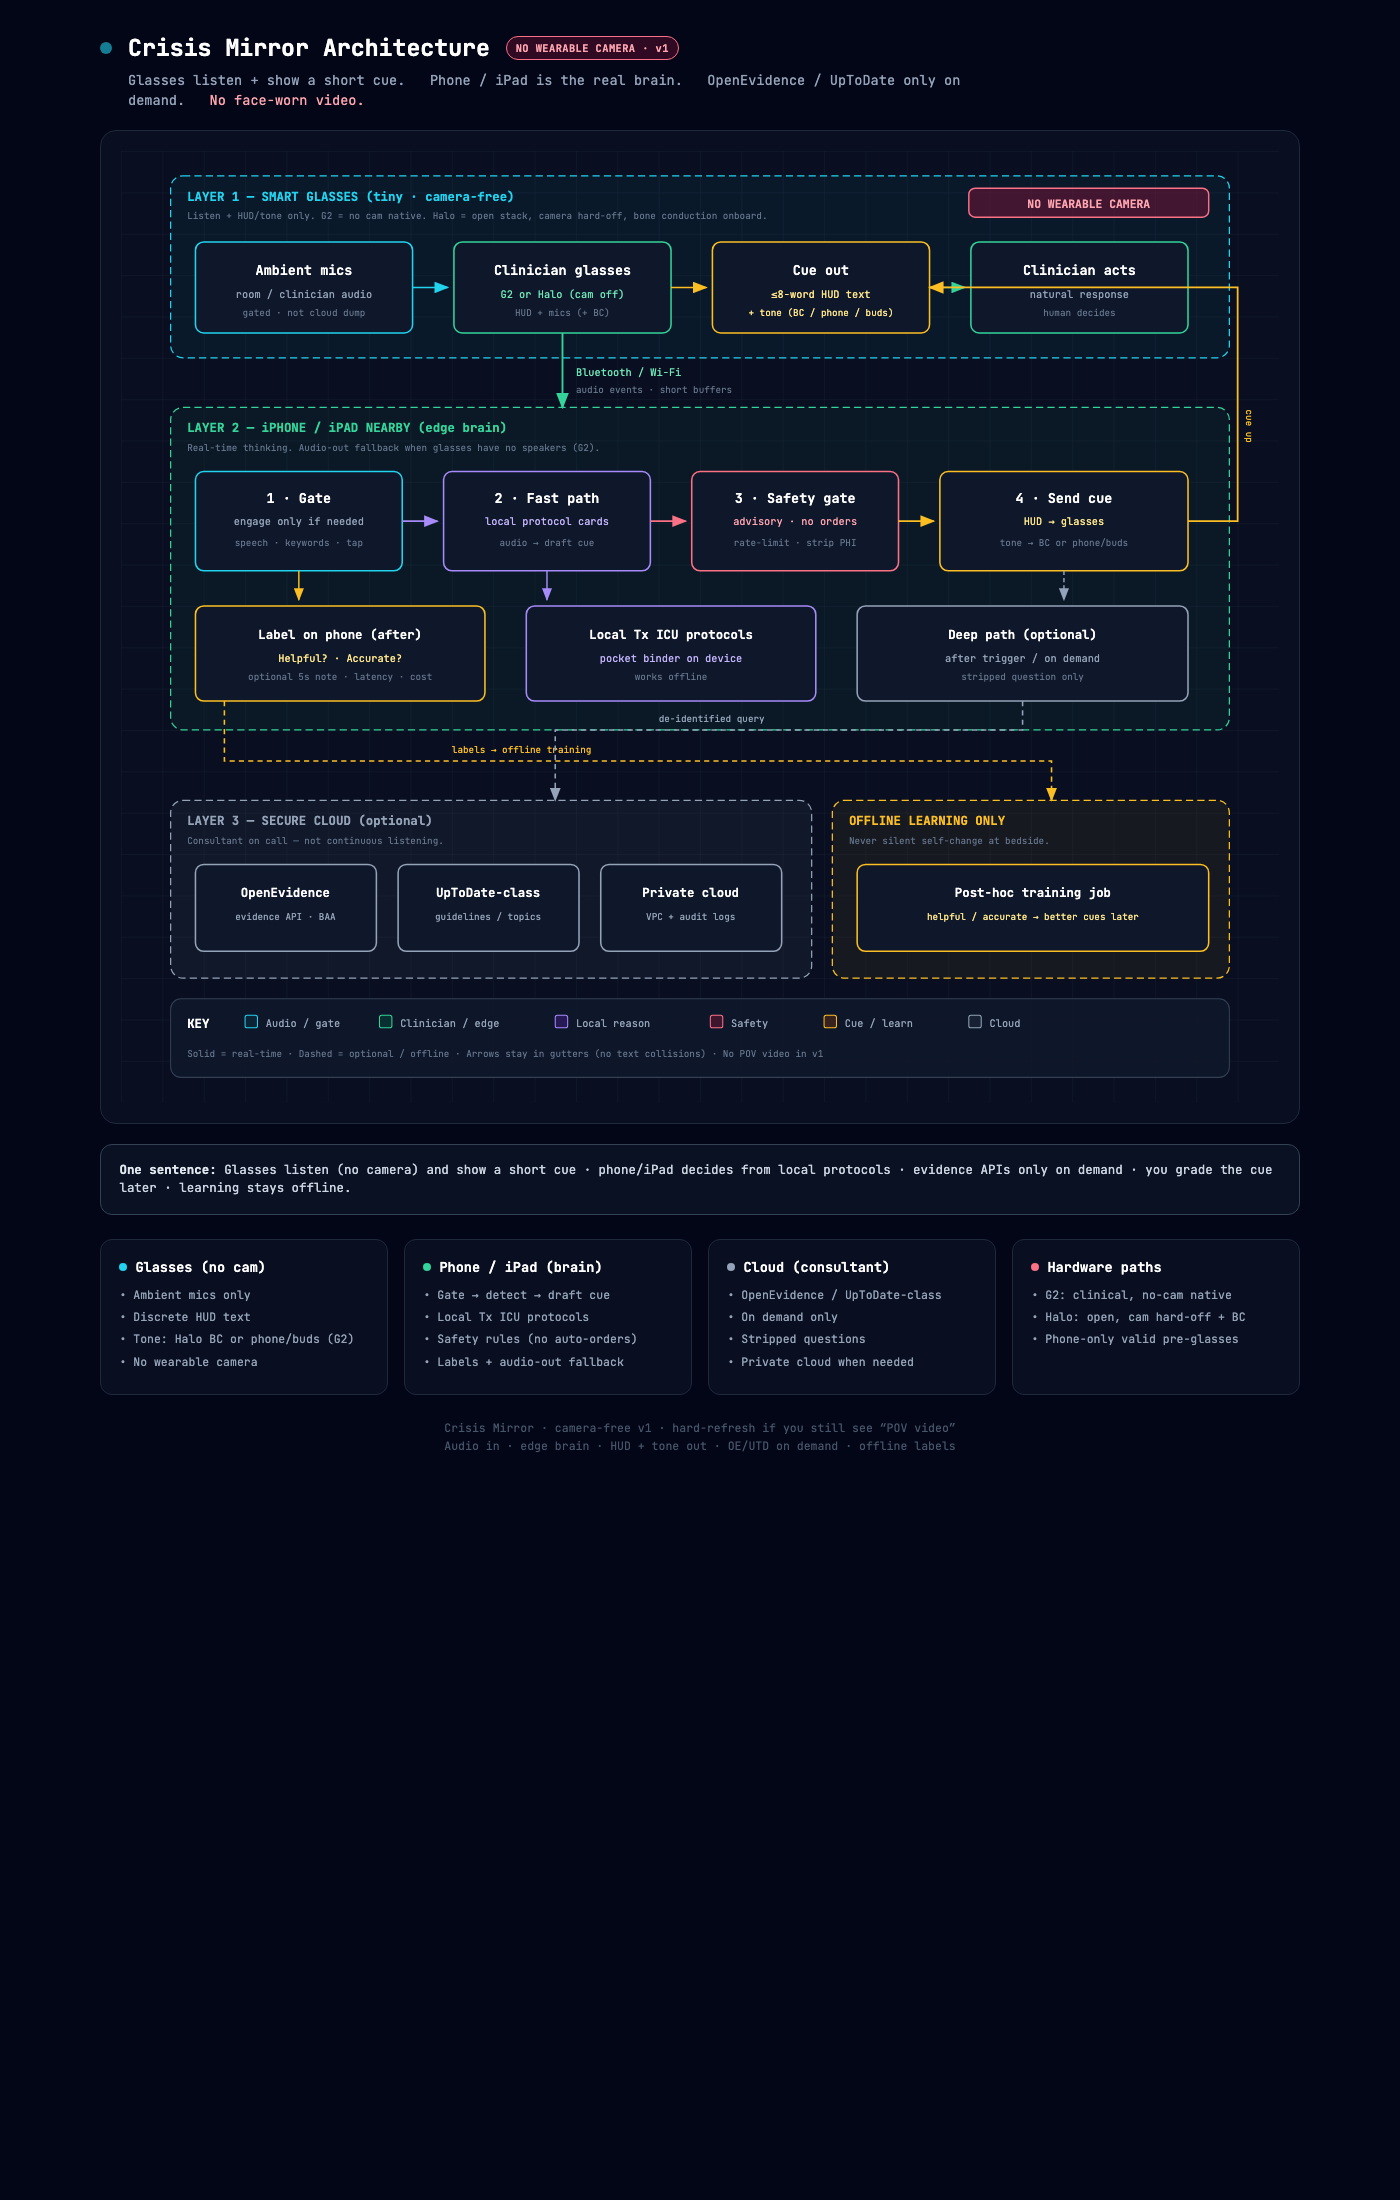
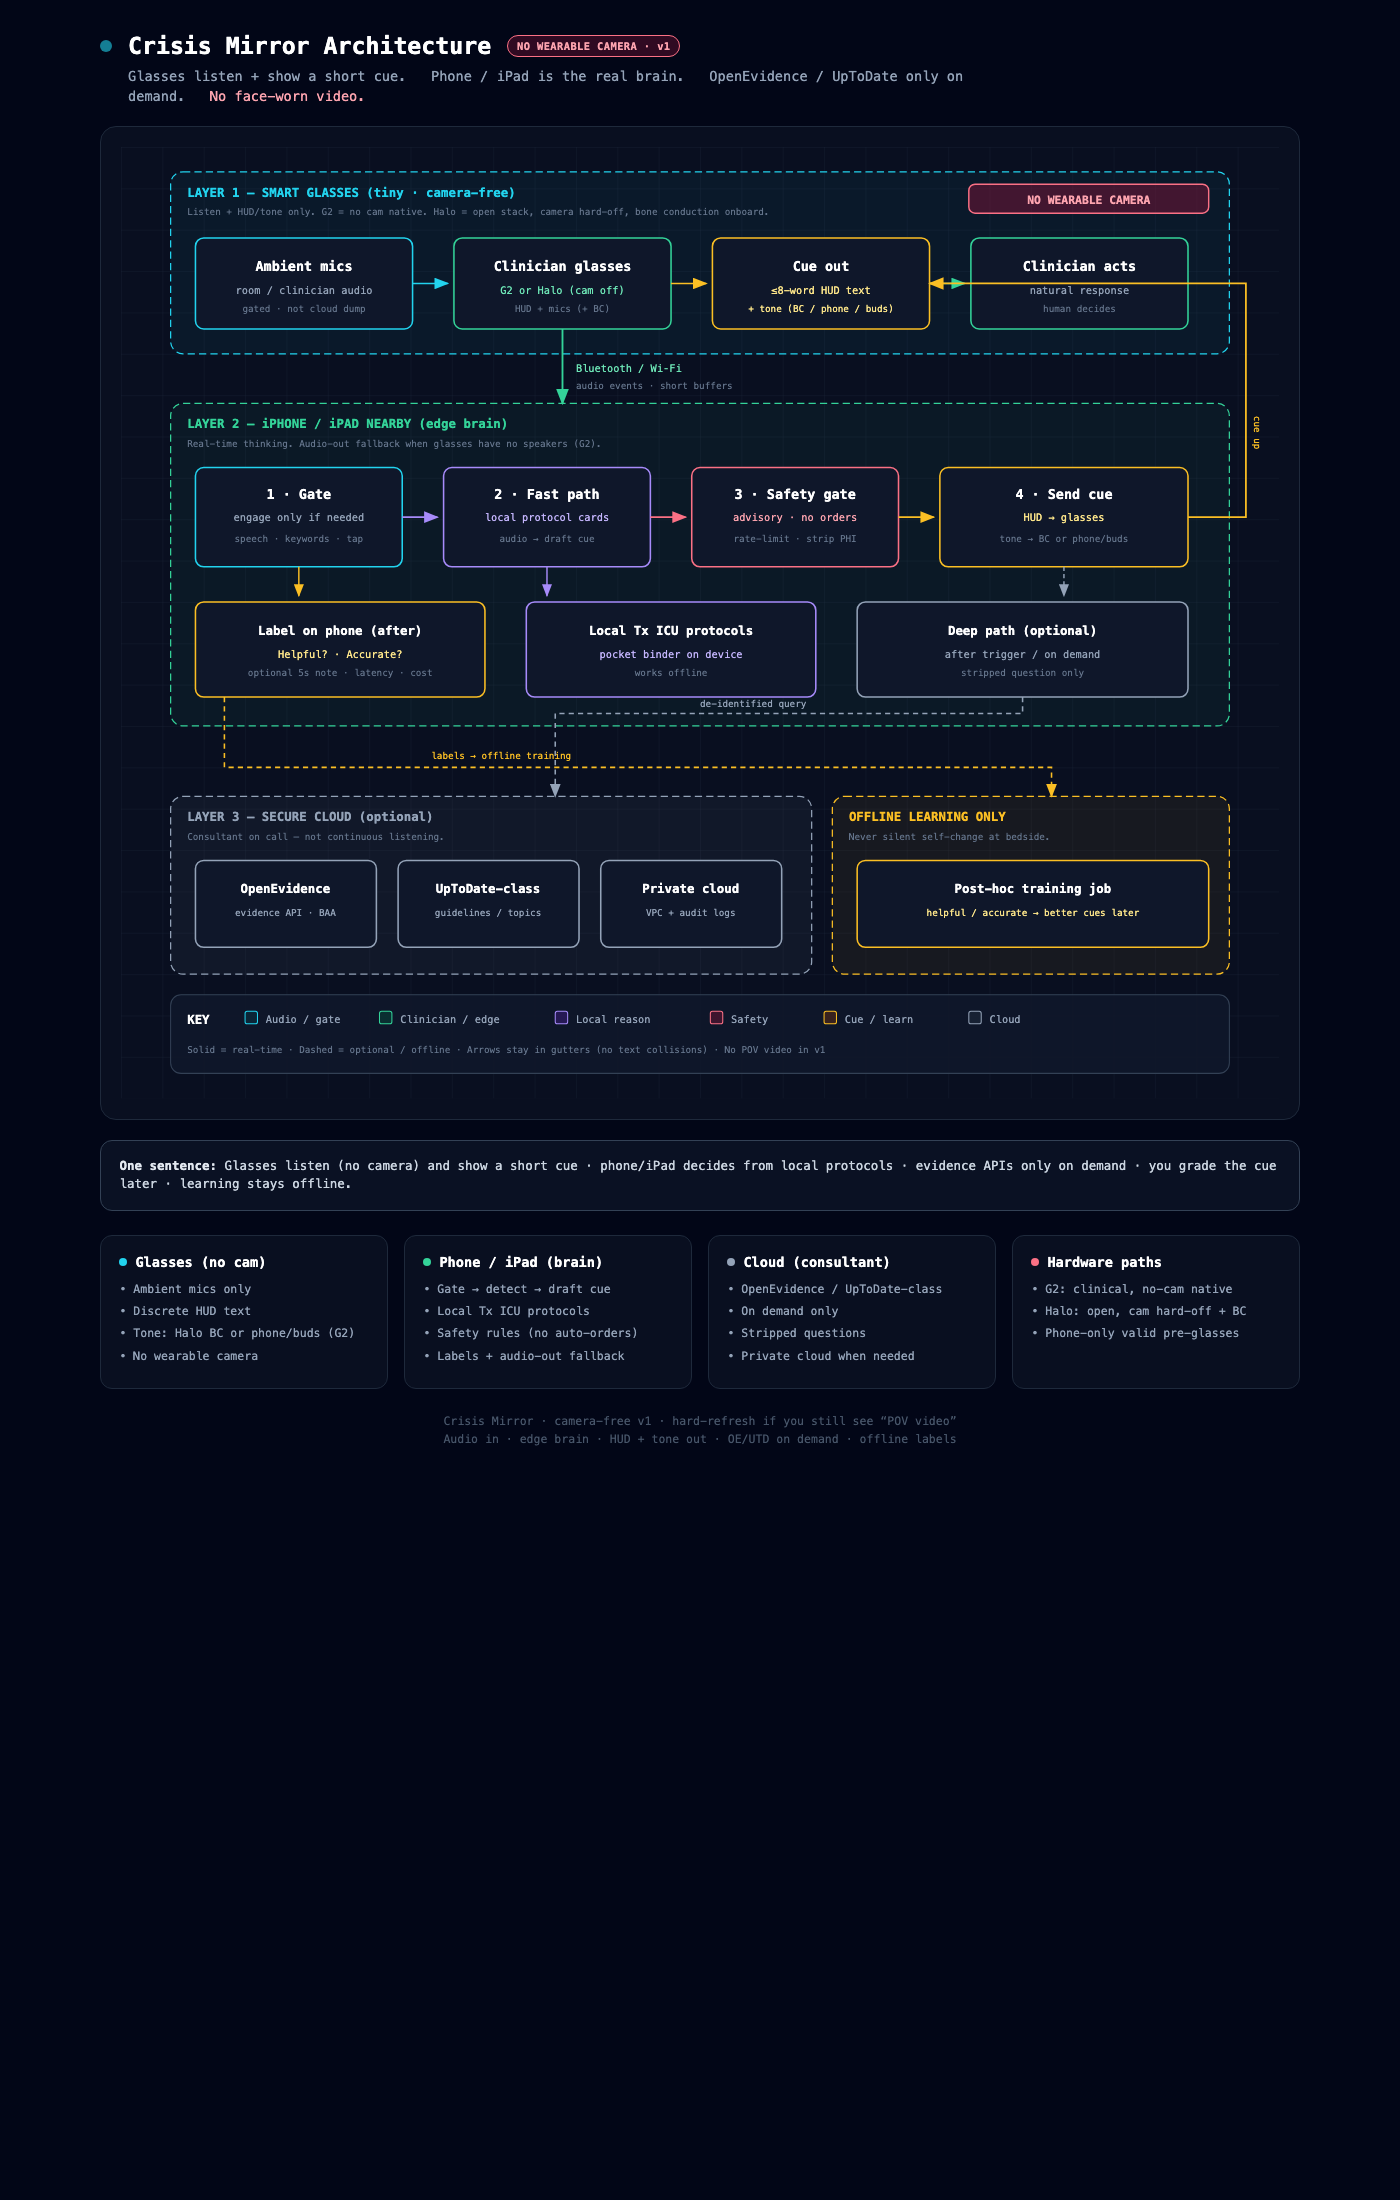
Separate gutter arrow lanes so labels do not sit on strokes

diff --git a/crisis-mirror-architecture.html b/crisis-mirror-architecture.html
@@ -205,21 +205,21 @@
         <text x="872" y="494" fill="#94a3b8" font-size="10" text-anchor="middle">after trigger / on demand</text>
         <text x="872" y="512" fill="#64748b" font-size="9" text-anchor="middle">stripped question only</text>
 
-        <!-- ========== GUTTER B y=560..620 — all long-range links live here ========== -->
-        <!-- cue-up: right rail outside content, orthogonal only -->
-        <path d="M 1032 358 L 1080 358 L 1080 132 L 782 132"
+        <!-- ========== GUTTER B y=560..620 — two parallel lanes, labels above lines ========== -->
+        <!-- cue-up: far-right rail → into Cue out (not through text) -->
+        <path d="M 1032 358 L 1088 358 L 1088 132 L 782 132"
               fill="none" stroke="#fbbf24" stroke-width="1.7" marker-end="url(#m-amber)"/>
-        <text x="1088" y="250" fill="#fbbf24" font-size="9" transform="rotate(90 1088 250)">cue up</text>
+        <text x="1096" y="260" fill="#fbbf24" font-size="9" transform="rotate(90 1096 260)">cue up</text>
 
-        <!-- labels → train: left rail then along gutter midline -->
-        <path d="M 100 532 L 100 590 L 900 590 L 900 628"
-              fill="none" stroke="#fbbf24" stroke-width="1.5" stroke-dasharray="5,4" marker-end="url(#m-amber)"/>
-        <text x="320" y="582" fill="#fbbf24" font-size="9">labels → offline training</text>
-
-        <!-- deep → cloud: from deep box bottom into gutter then down -->
-        <path d="M 872 532 L 872 560 L 420 560 L 420 628"
+        <!-- deep → cloud: upper gutter lane -->
+        <path d="M 872 532 L 872 548 L 420 548 L 420 628"
               fill="none" stroke="#94a3b8" stroke-width="1.5" stroke-dasharray="5,4" marker-end="url(#m-slate)"/>
-        <text x="520" y="552" fill="#94a3b8" font-size="9">de-identified query</text>
+        <text x="560" y="542" fill="#94a3b8" font-size="9">de-identified query</text>
+
+        <!-- labels → train: lower gutter lane (clear of deep path) -->
+        <path d="M 100 532 L 100 600 L 900 600 L 900 628"
+              fill="none" stroke="#fbbf24" stroke-width="1.5" stroke-dasharray="5,4" marker-end="url(#m-amber)"/>
+        <text x="300" y="592" fill="#fbbf24" font-size="9">labels → offline training</text>
 
         <!-- ========== L3 + offline y=628..800 ========== -->
         <rect x="48" y="628" width="620" height="172" rx="12" fill="rgba(148,163,184,0.06)" stroke="#94a3b8" stroke-width="1.2" stroke-dasharray="7,4"/>
